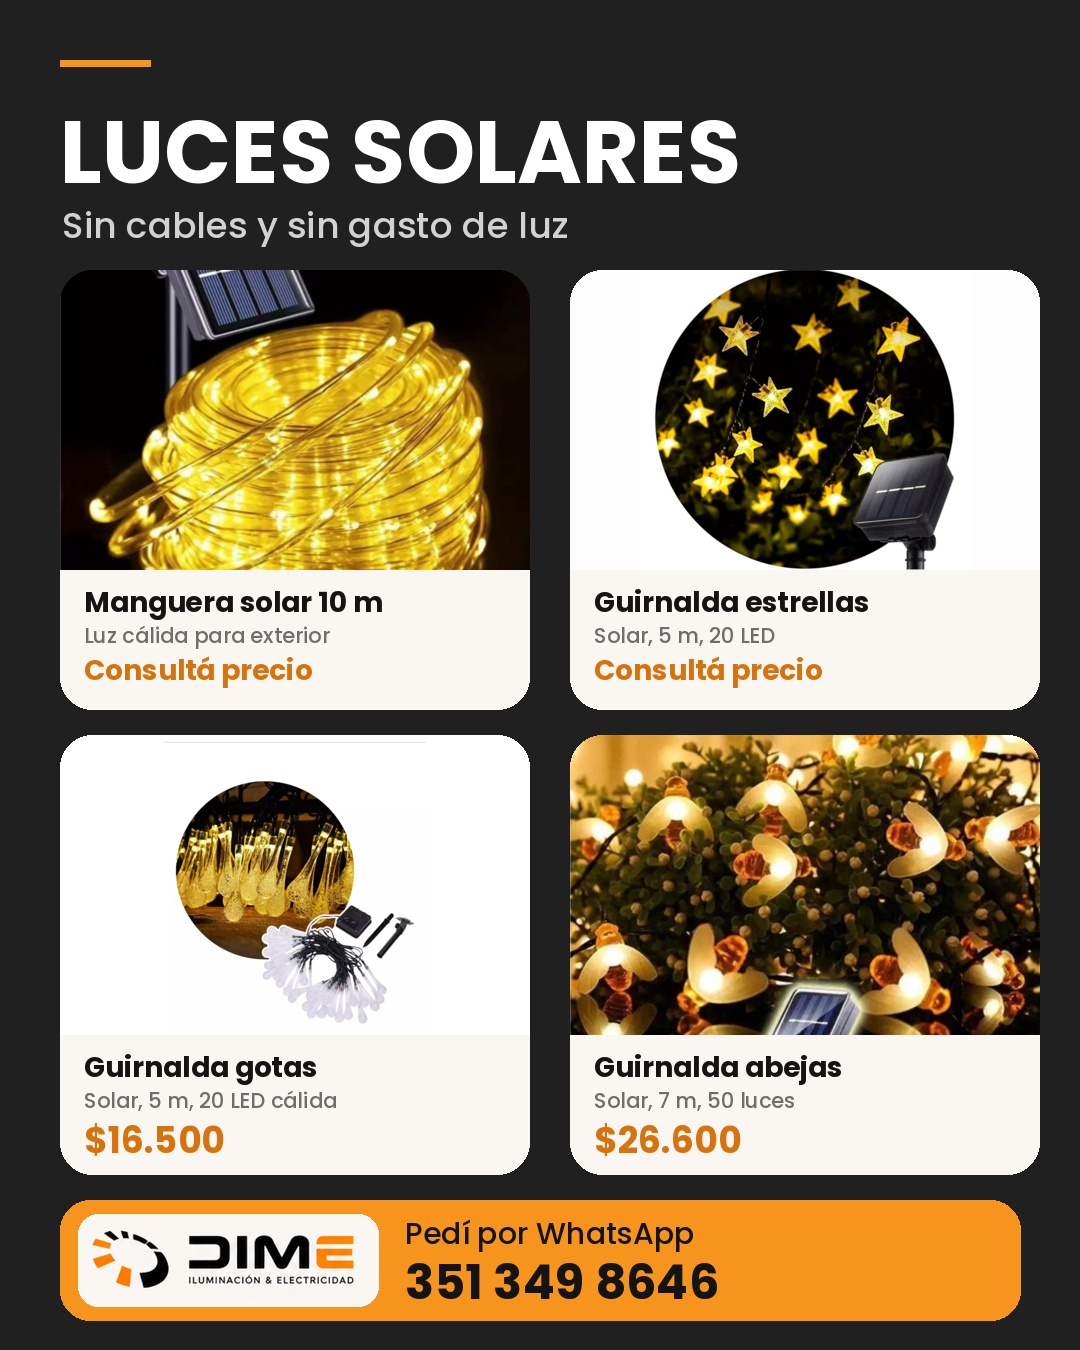
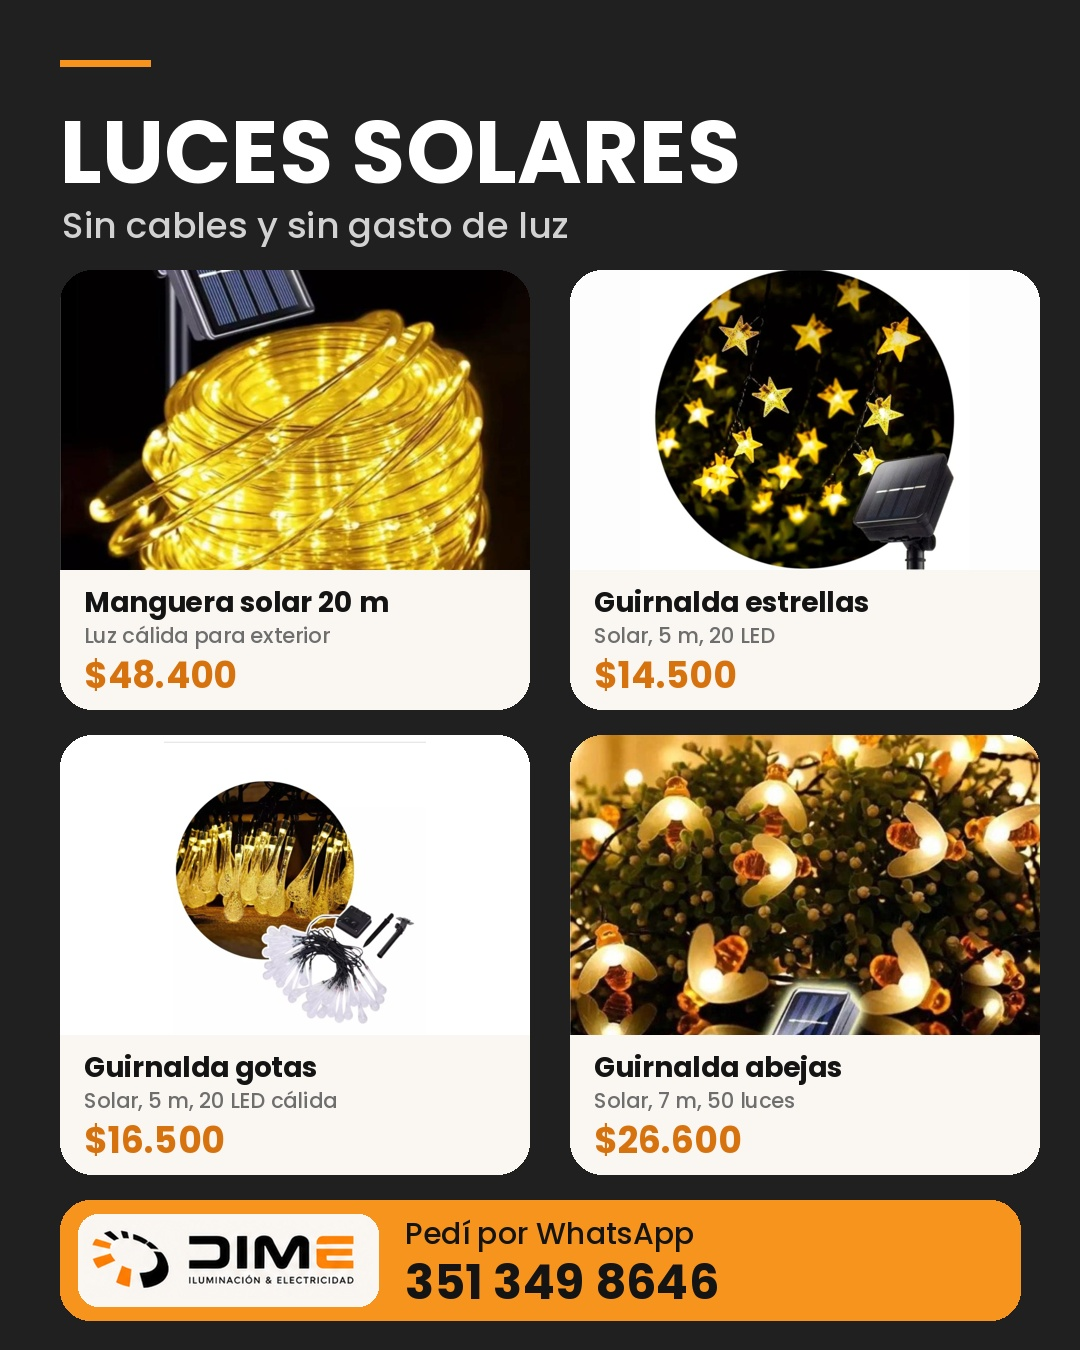
Precios manguera, estrella y lámpara

Changed region(s): [[0.55, 0.4667, 0.7639, 0.5289], [0.0611, 0.4667, 0.275, 0.5289], [0.275, 0.4356, 0.3667, 0.4667]]

diff --git a/flyers_deco.py b/flyers_deco.py
@@ -8,11 +8,11 @@ F='/usr/share/fonts/truetype/google-fonts/'
 BG=(32,32,32); OR=(247,148,30); CREAM=(250,246,242)
 bold=lambda s: ImageFont.truetype(F+'Poppins-Bold.ttf',s)
 med=lambda s: ImageFont.truetype(F+'Poppins-Medium.ttf',s)
-PRICES={'tira_arroz':'$8.700','vela_solar_x6':'$5.600','gota_solar': '$16.500', 'abeja_solar': '$26.600', 'cortina_lluvia': '$11.400', 'cortina_3x3': '$30.200', 'red_2x2': '$18.400', 'ramo_hada': '$32.700', 'cerezo_solar': '$44.800', 'kermes_solar': '$67.800'}
+PRICES={'manguera_solar':'$48.400','estrella_solar':'$14.500','lampara_pared':'$29.000','tira_arroz':'$8.700','vela_solar_x6':'$5.600','gota_solar': '$16.500', 'abeja_solar': '$26.600', 'cortina_lluvia': '$11.400', 'cortina_3x3': '$30.200', 'red_2x2': '$18.400', 'ramo_hada': '$32.700', 'cerezo_solar': '$44.800', 'kermes_solar': '$67.800'}
 logo=Image.open(A+'logo_orig.png').convert('RGBA')
 SETS={
  'solares':('LUCES SOLARES','Sin cables y sin gasto de luz',[
-   ('manguera_solar','Manguera solar 10 m','Luz cálida para exterior'),
+   ('manguera_solar','Manguera solar 20 m','Luz cálida para exterior'),
    ('estrella_solar','Guirnalda estrellas','Solar, 5 m, 20 LED'),
    ('gota_solar','Guirnalda gotas','Solar, 5 m, 20 LED cálida'),
    ('abeja_solar','Guirnalda abejas','Solar, 7 m, 50 luces')]),
